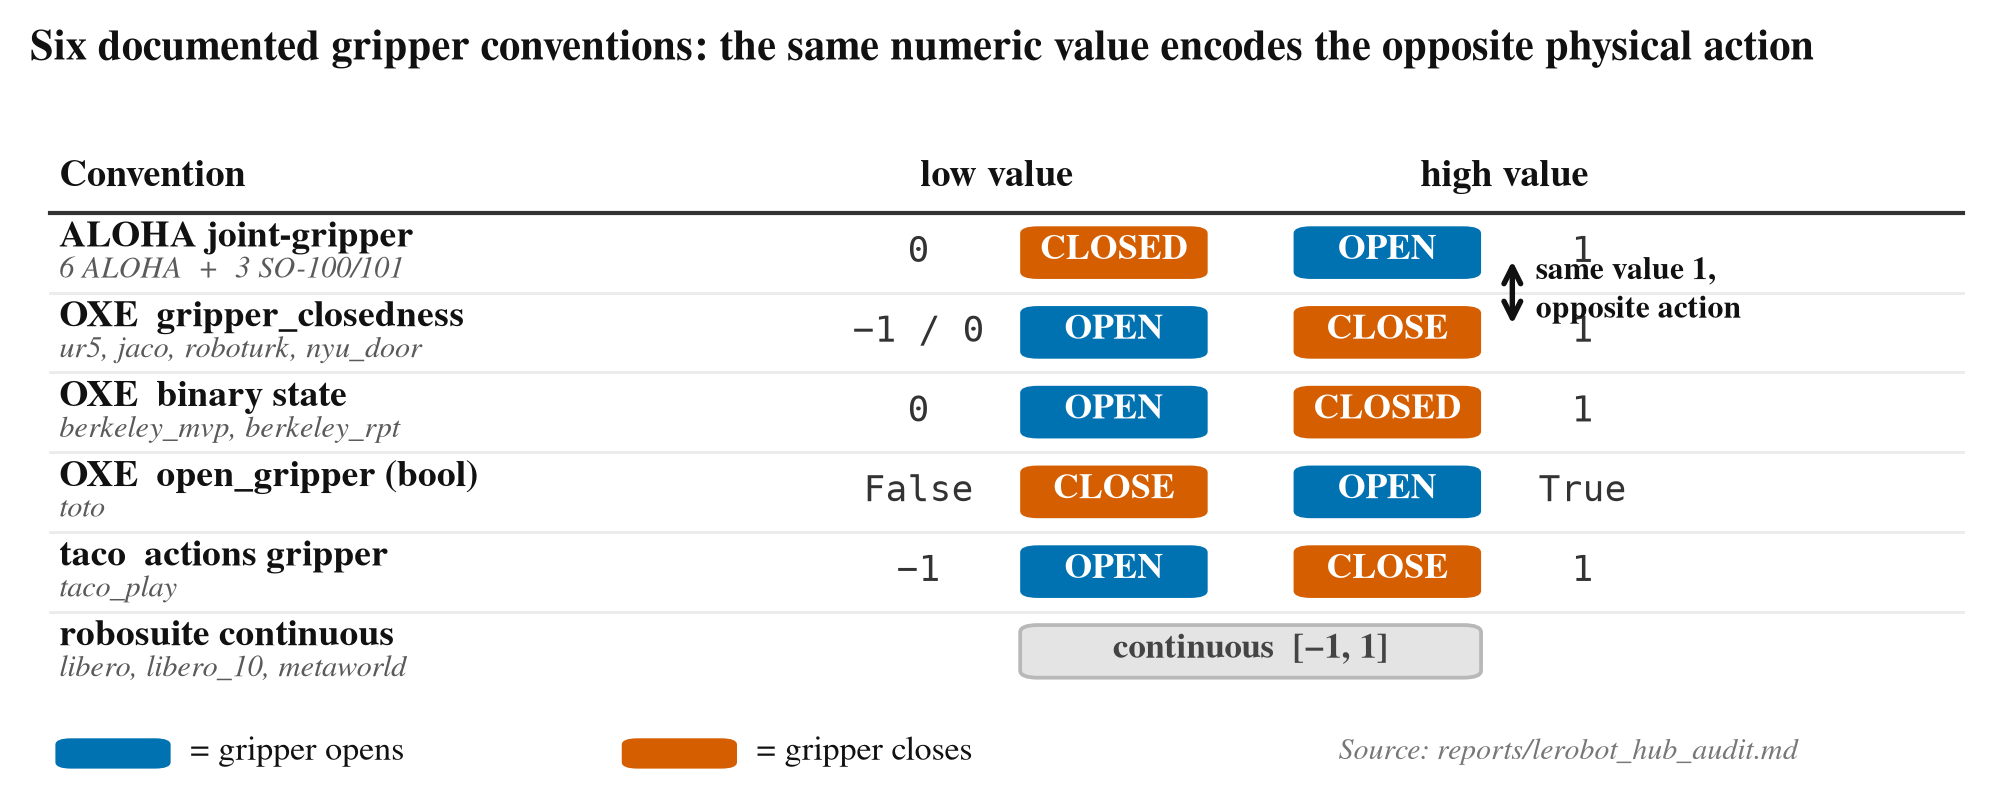
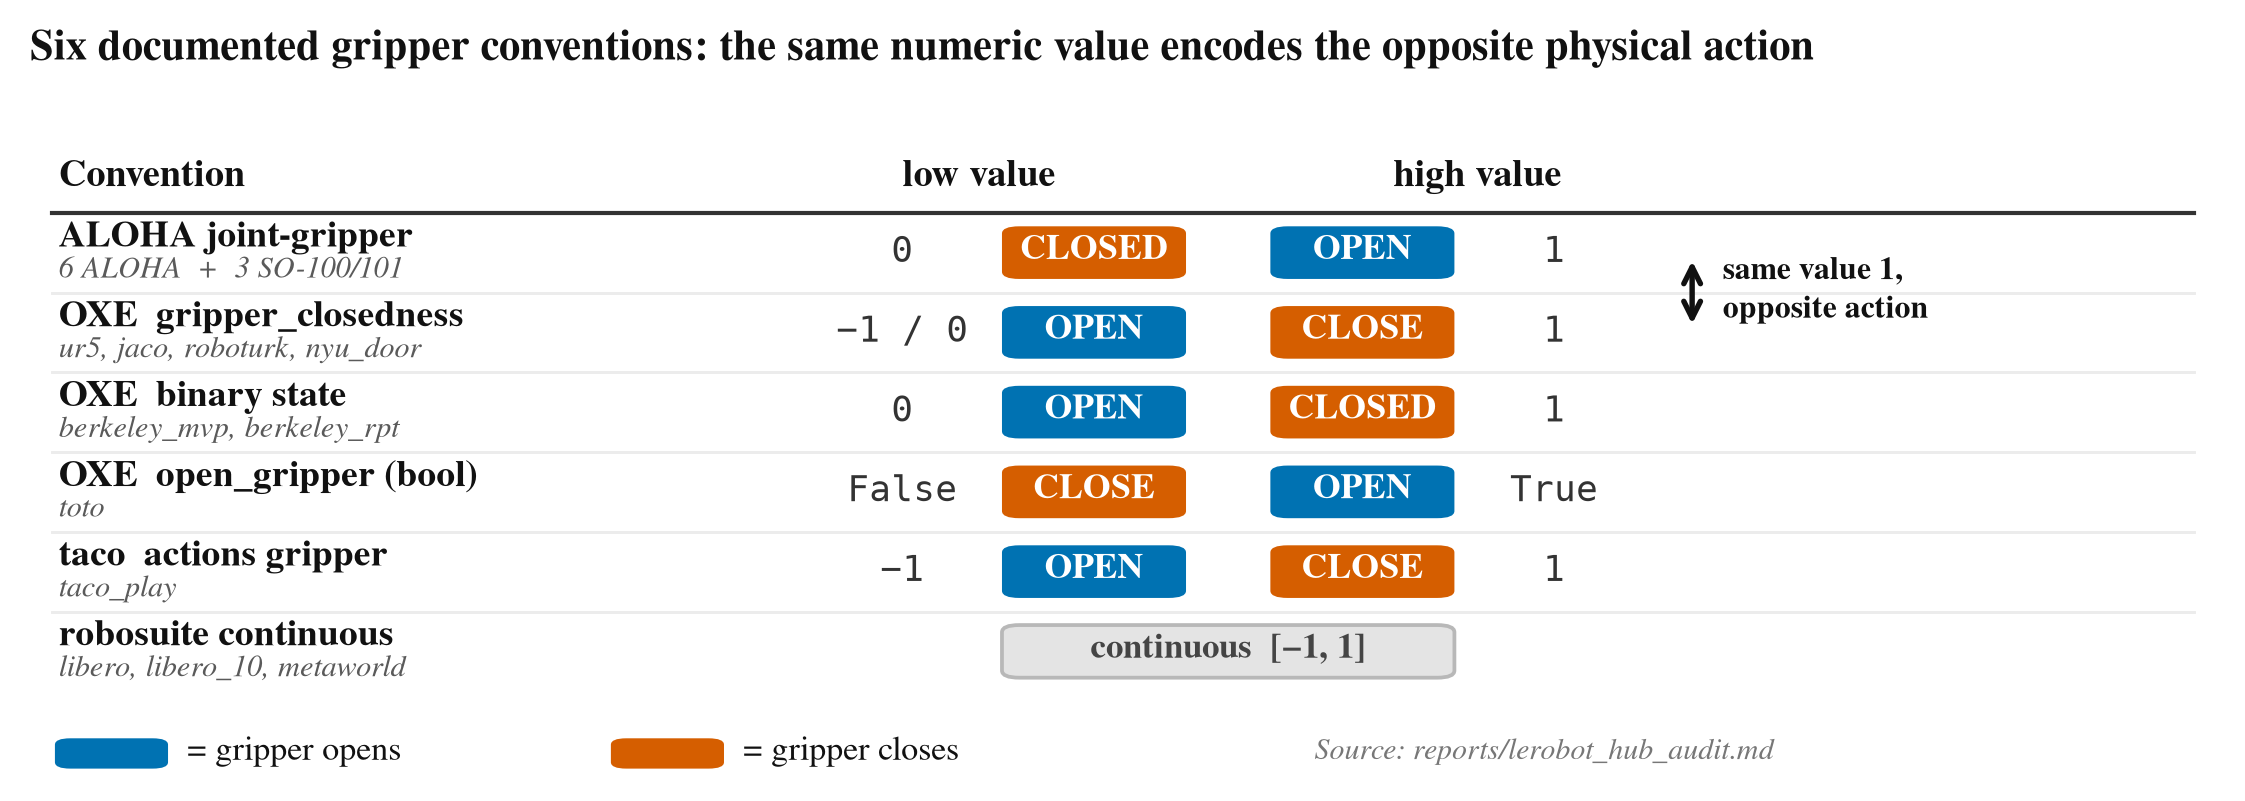
media: fix gripper-conventions figure overlap
Move the 'same value 1, opposite action' callout + arrow clear of the high-value
'1' labels (widened canvas); no content change.

diff --git a/media/make_media.py b/media/make_media.py
@@ -1086,8 +1086,8 @@ def fig_gripper_conventions_paper():
     def meaning_color(m):
         return OI["blue"] if m == "open" else OI["vermillion"]
 
-    fig, ax = plt.subplots(figsize=(8.4, 2.9))
-    ax.set_xlim(0, 10)
+    fig, ax = plt.subplots(figsize=(9.4, 2.9))
+    ax.set_xlim(0, 11.4)
     ax.set_ylim(-1.5, n + 0.9)
     ax.axis("off")
 
@@ -1144,10 +1144,12 @@ def fig_gripper_conventions_paper():
     # polarity-flip callout linking ALOHA (row0, high=OPEN) and OXE-closedness
     # (row1, high=CLOSE): same numeric 1, opposite physical action.
     yA, yB = n - 1, n - 2
-    bx = x_high + chip_w / 2 + 0.18
+    # Place the connector + callout clearly to the RIGHT of the "1" high-value
+    # labels (x_highlab) so neither the arrow nor the text collides with them.
+    bx = x_highlab + 0.72
     ax.annotate("", xy=(bx, yA), xytext=(bx, yB),
                 arrowprops=dict(arrowstyle="<->", color=OI["black"], lw=1.3))
-    ax.text(bx + 0.12, (yA + yB) / 2, "same value 1,\nopposite action",
+    ax.text(bx + 0.16, (yA + yB) / 2, "same value 1,\nopposite action",
             fontsize=7.6, fontweight="bold", ha="left", va="center",
             color=OI["black"])
 